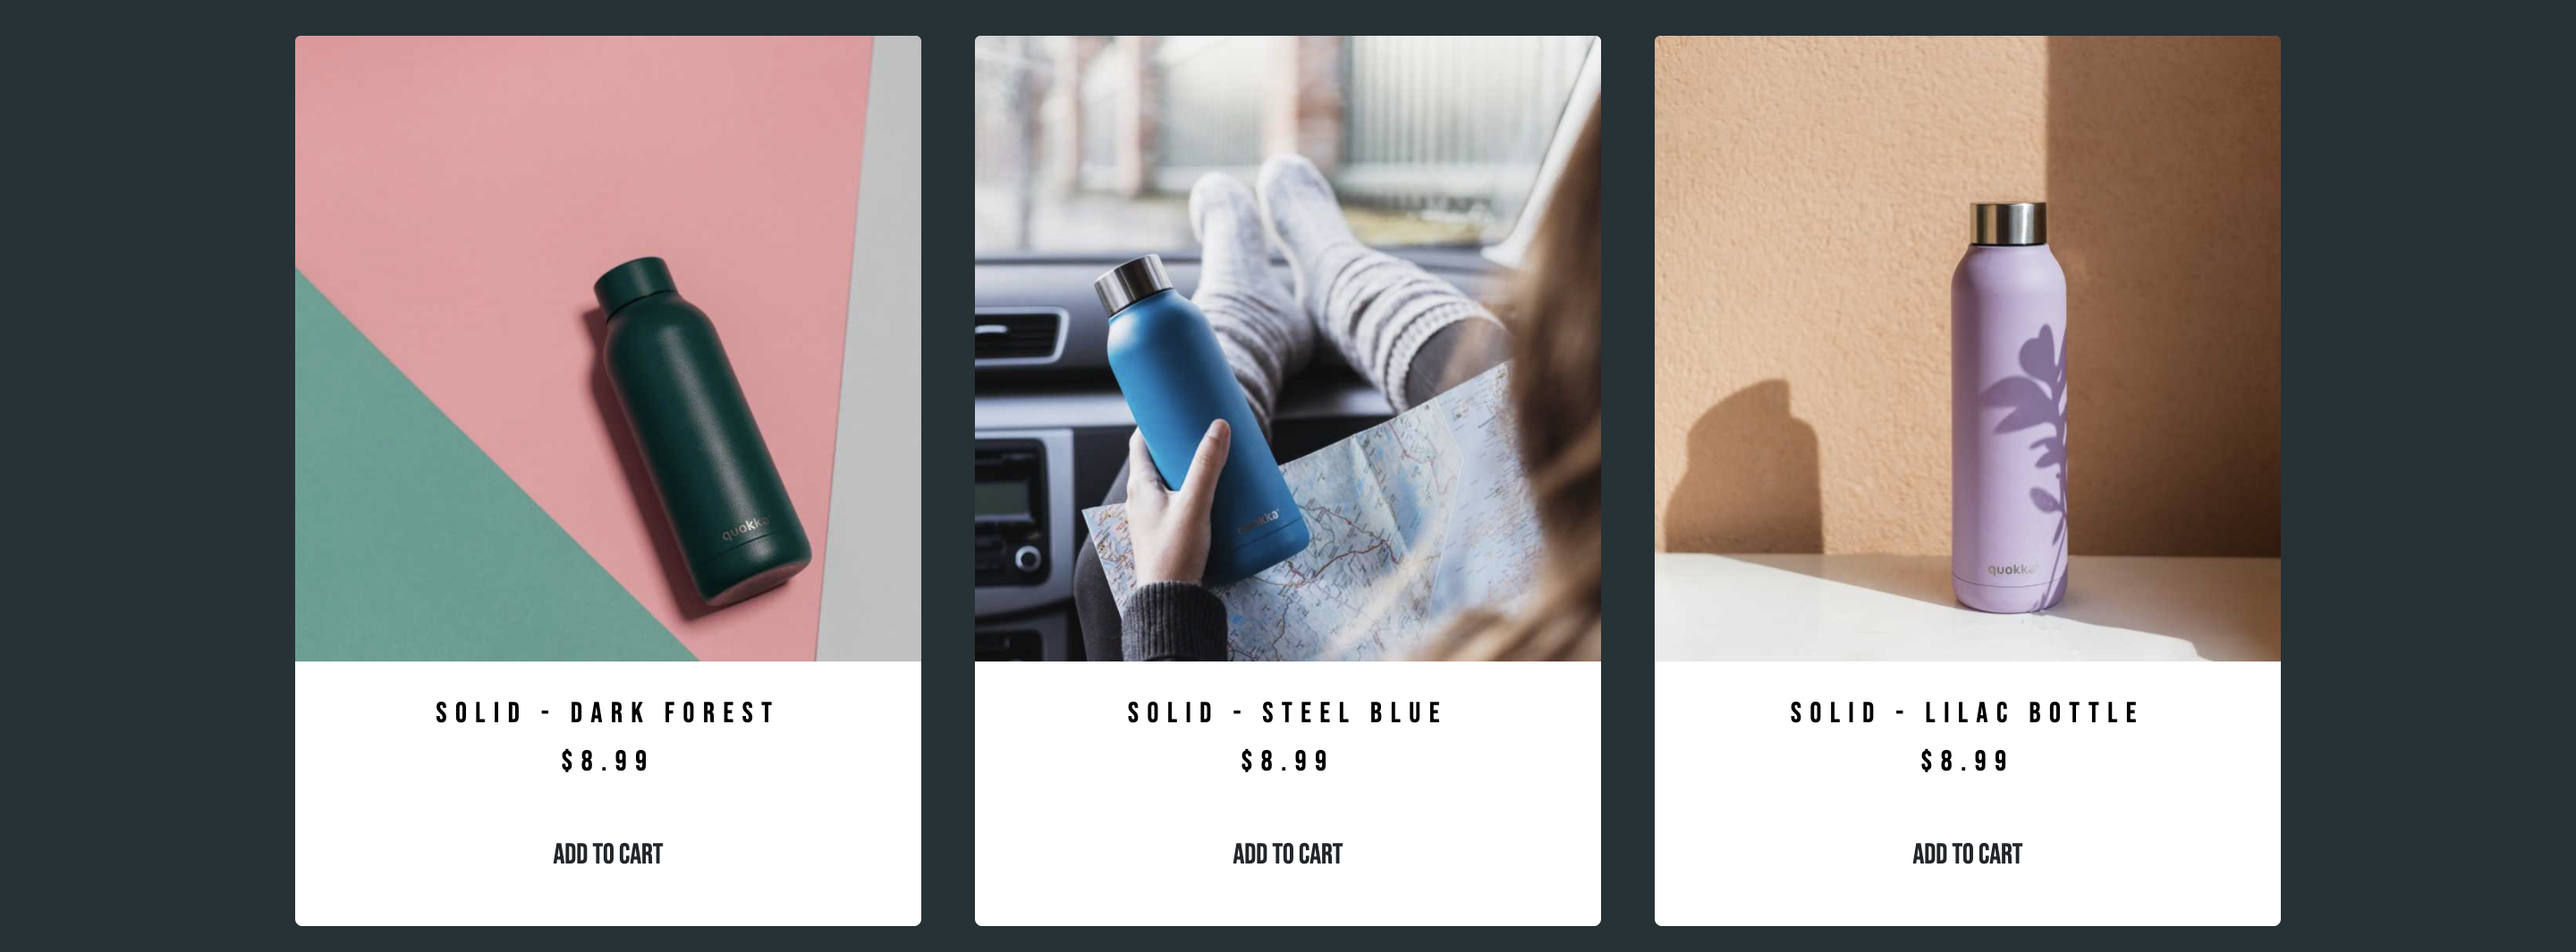
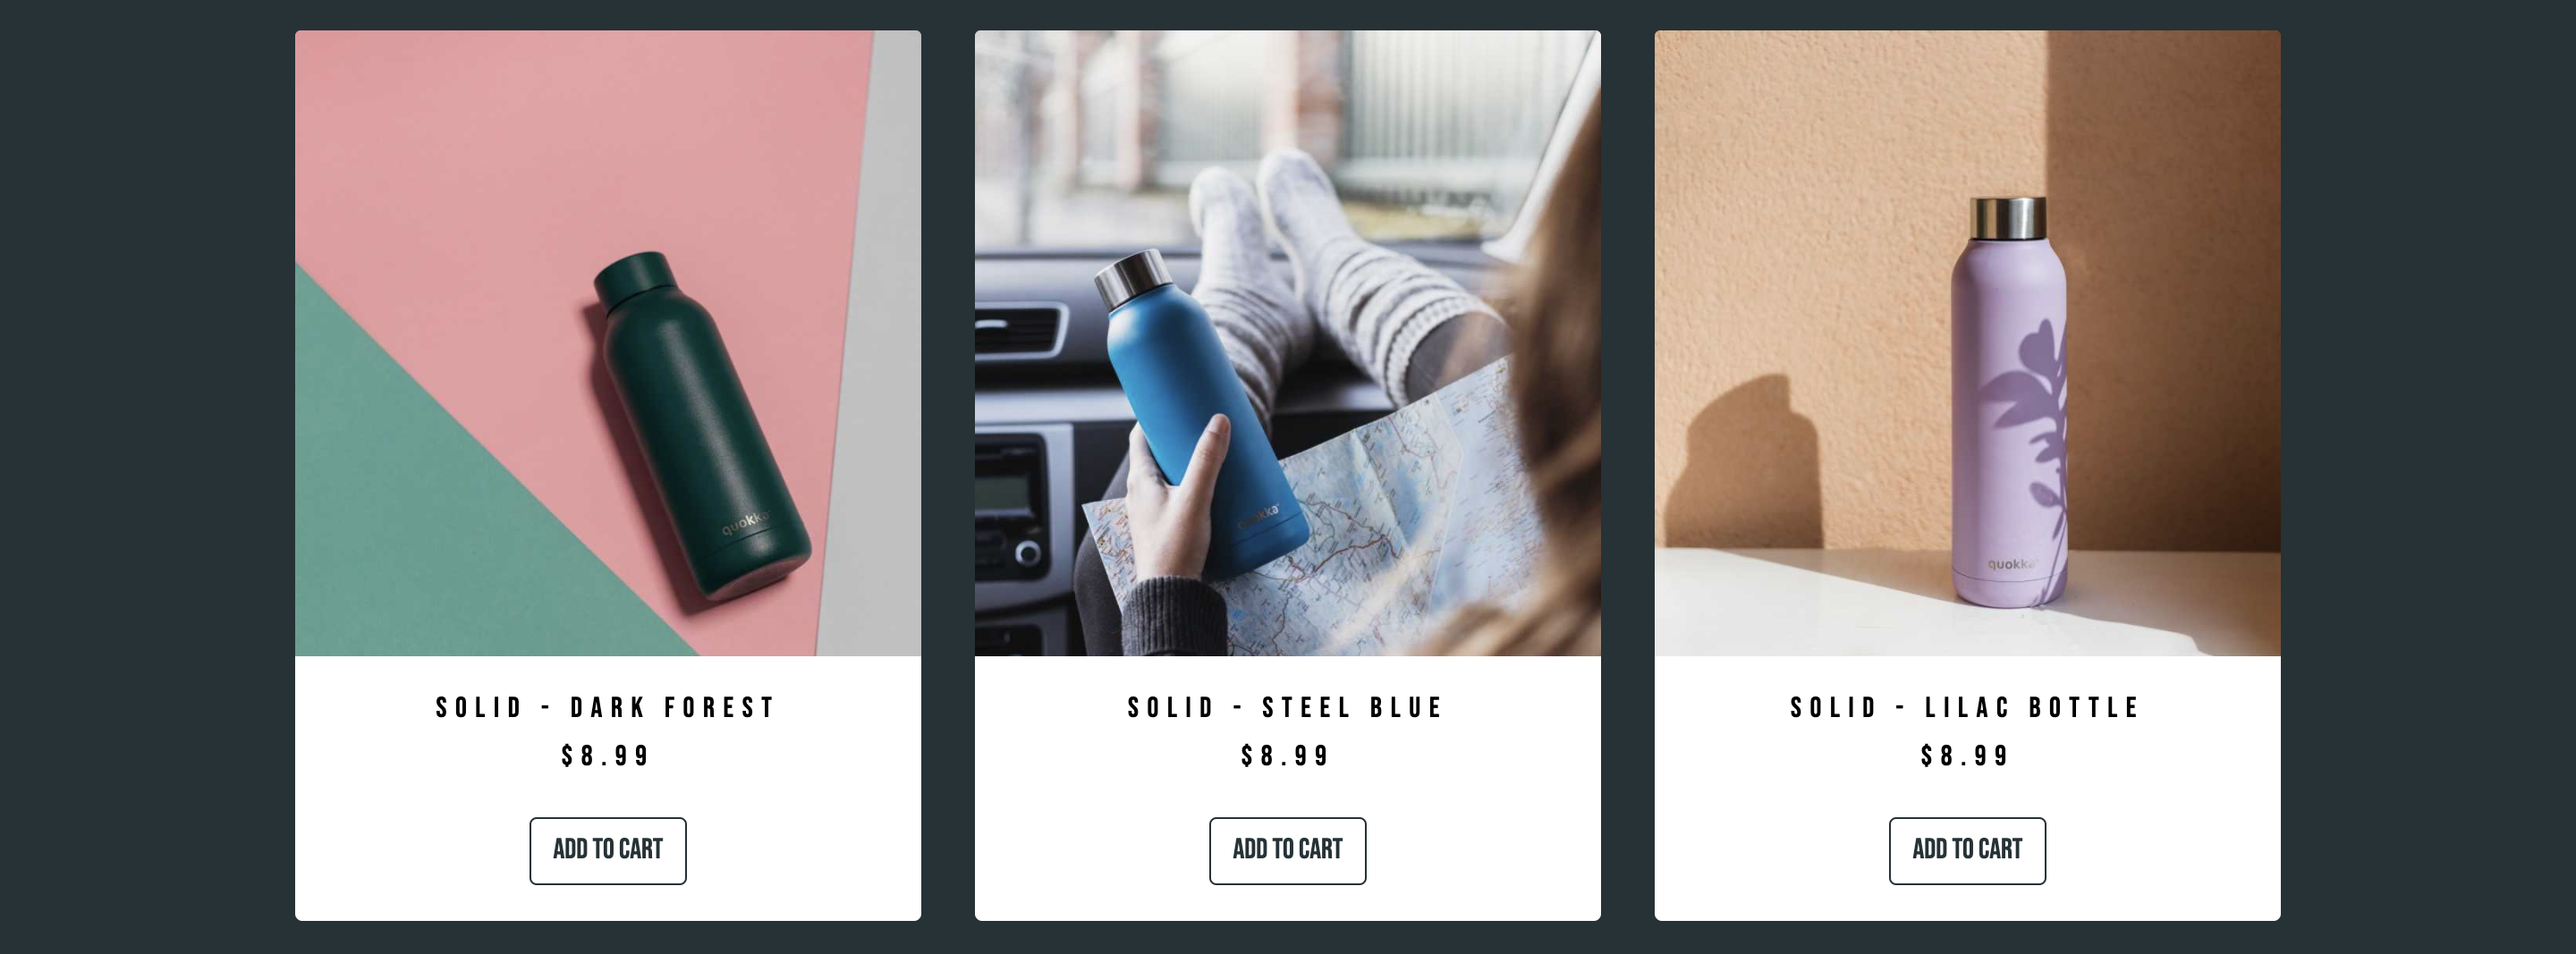
wip

diff --git a/src/components/layout.css b/src/components/layout.css
@@ -65,6 +65,16 @@ h6 {
   font-size: 2rem;
 }
 
+.btn-yellow {
+  color: var(--mainGray) !important;
+  border-color: var(--mainGray) !important;
+}
+
+.btn-yellow:hover {
+  background: var(--mainGray) !important;
+  color: var(--mainWhite) !important;
+}
+
 .btn-white {
   color: var(--mainWhite) !important;
   border-color: var(--mainWhite) !important;
